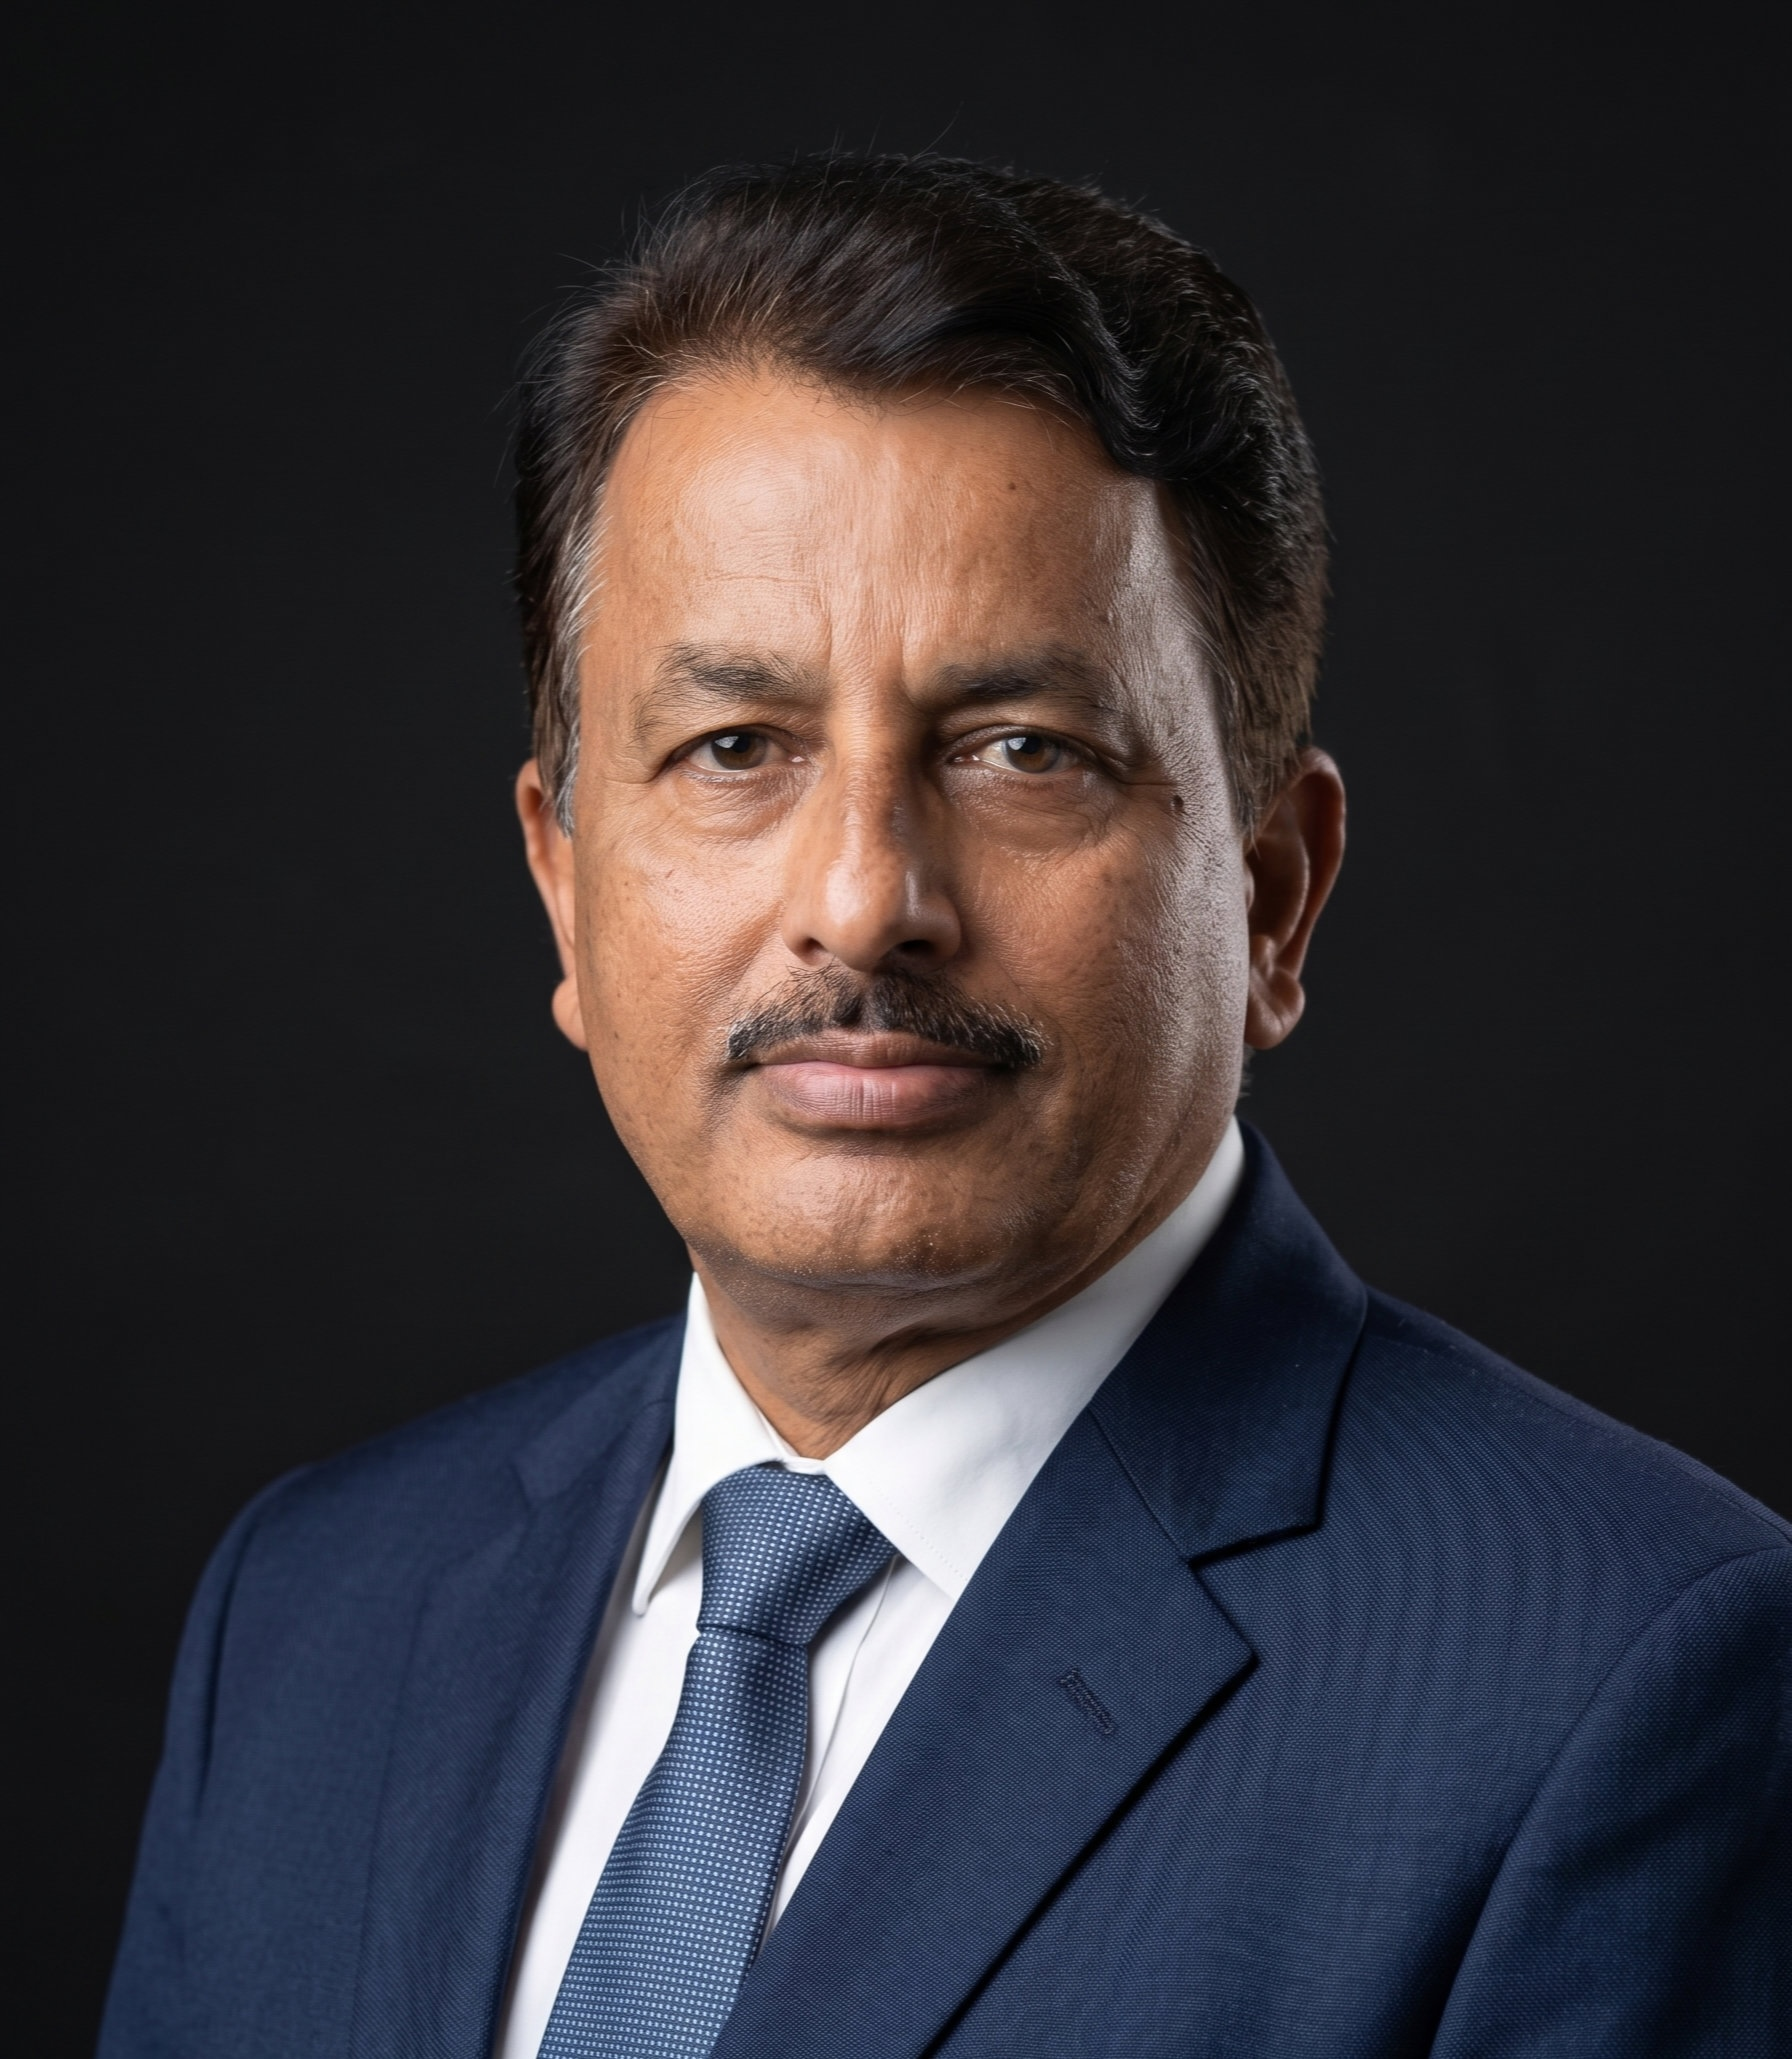
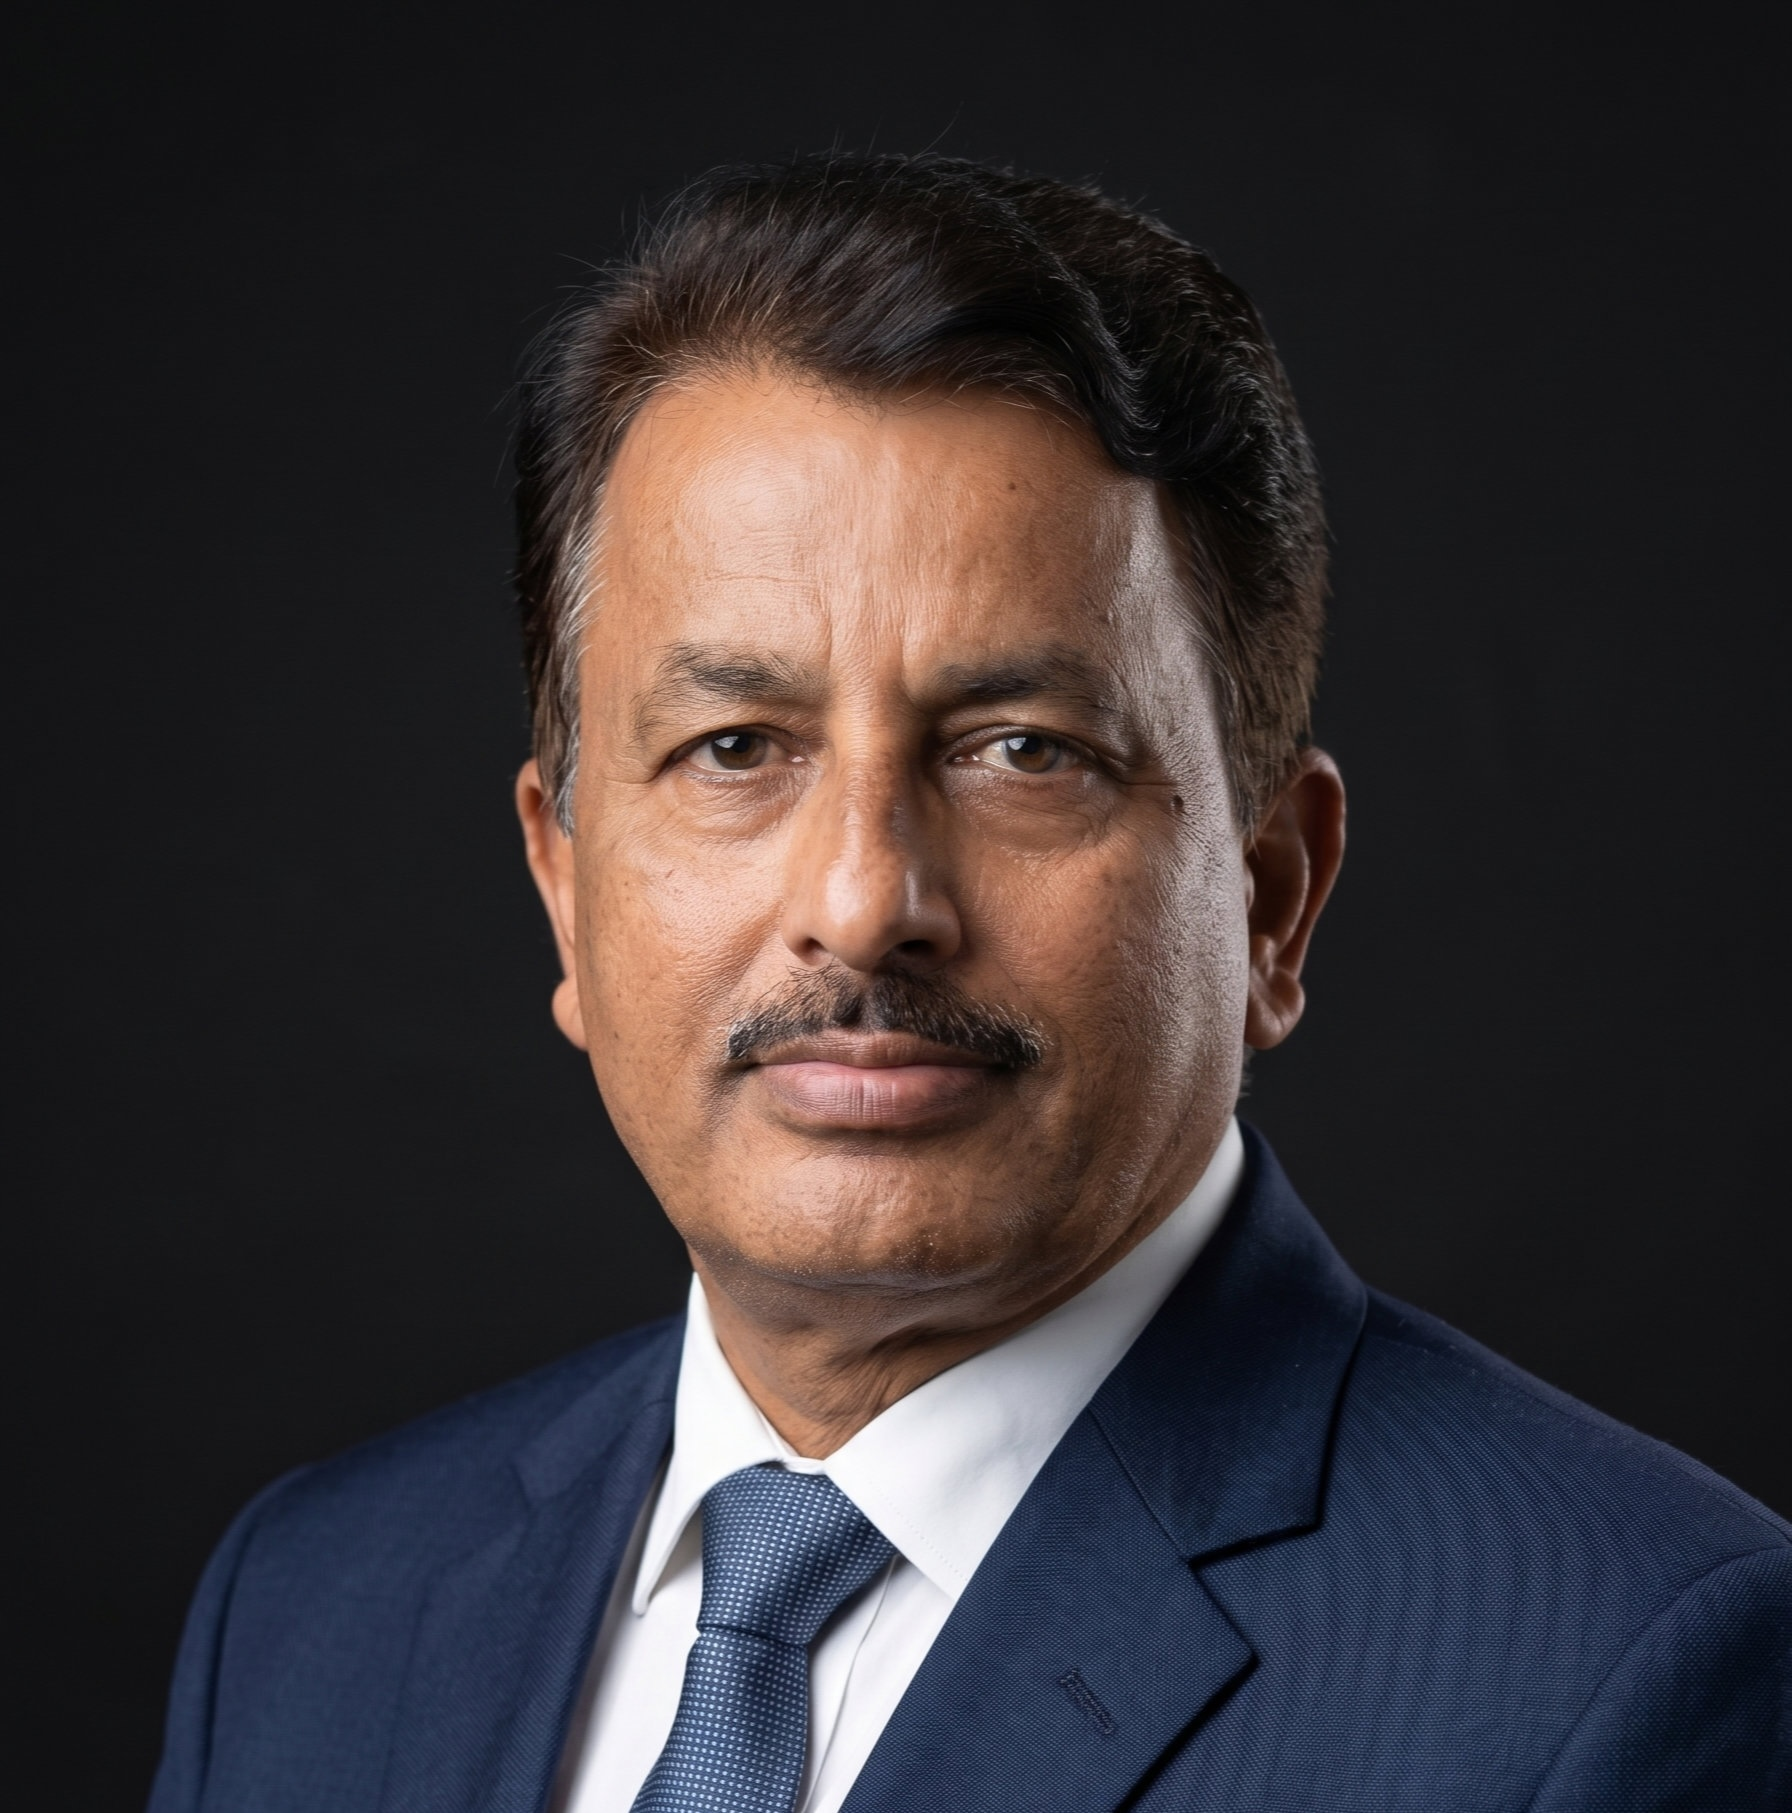
feat: fix process section

diff --git a/components/Site.jsx b/components/Site.jsx
@@ -417,7 +417,8 @@ function HeroMock() {
       {/* the matched result */}
       <div className="mock-result">
         <div className="mock-photo">
-          <img className="mock-badge" src="/images/logo.png" alt="" />
+            <Img src="/images/hero-guard.jpg" alt="Matched CISS security guard" />
+          {/* <img className="mock-badge" src="/images/logo.png" alt="" /> */}
         </div>
         <div className="mock-meta">
           <div className="mock-name">Guard matched<span className="mock-caret" /></div>
@@ -438,8 +439,8 @@ function Hero({ onQuote }) {
     <header className="hero" id="top">
       <div className="wrap hero-grid">
         <div className="hero-copy">
-          <h1 className="serif">Find your <span className="italic">guard</span>, not just an agency</h1>
-          <p className="sub">Vetted, PSARA-licensed guards matched to your site &mdash; and a team that stays on watch long after day one.</p>
+          <h1 className="serif"><span className="italic">Security Guard Services </span> in Lucknow</h1>
+          <p className="sub">From weddings to industrial sites, we match you with highly-trained, PSARA-licensed guards in as little as 48 hours.</p>
           <div className="hero-cta">
             <button className="pill pill-white" onClick={onQuote}>Talk to us <span className="arrow-circ" aria-hidden="true">&rarr;</span></button>
             <a href="#services" className="pill pill-grey" style={{ textDecoration: "none" }}>View services</a>
@@ -482,11 +483,10 @@ function Services() {
             <>
               <div className="focus-img svc-img"><Img src={path} alt={`${label} in Lucknow`} /></div>
               <h3 className="svc-label">{label}</h3>
-              <div className="svc-arrow" aria-hidden="true">&rarr;</div>
+              {/* <div className="svc-arrow" aria-hidden="true">&rarr;</div> */}
             </>
           )}
         />
-        <p className="hint">14 services &mdash; swipe or use the arrows</p>
       </div>
     </section>
   );
@@ -506,11 +506,11 @@ function WhyUs() {
           <div className="why-founder">
             <div className="photo"><Img src="/images/founder.jpg" alt="Founder of CISS Lucknow, a retired IPS officer" /></div>
             <div className="body">
-              <span className="badge">Founder &middot; Former IPS Officer</span>
-              <div className="name">[Founder Name]</div>
-              <div className="role">IPS (Retd.) &middot; Ex-Superintendent of Police</div>
+              <span className="badge">Retired IPS Officer</span>
+              <div className="name">M.R. Singh</div>
+              <div className="role">Ex-Deputy Inspector General (Uttar Pradesh Police)</div>
               <p className="blurb">
-                Over two decades in the Indian Police Service. After a distinguished career in law
+                Over three decades in the Indian Police Service. After a distinguished career in law
                 enforcement, he founded CISS to bring that same discipline, integrity, and command
                 to private security across Lucknow.
               </p>
@@ -550,142 +550,56 @@ function ClientLogos() {
 }
 
 function Process() {
-  const isD = useIsDesktop();
   const [active, setActive] = useState(0);
-  const trackRef = useRef(null);
-  const sentinels = useRef([]);
-  const lockRef = useRef(false);
-  const settleRef = useRef(null);
-
-  useEffect(() => () => clearInterval(settleRef.current), []);
-
-  // Scroll → active step. Listens on `document` in the capture phase so it works
-  // whether the page scrolls on `window` or inside a nested scroll container.
-  useEffect(() => {
-    const onScroll = () => {
-      if (lockRef.current) return;
-      const t = trackRef.current;
-      if (!t) return;
-      const vh = window.innerHeight;
-      const total = t.offsetHeight - vh;
-      const scrolled = Math.min(Math.max(-t.getBoundingClientRect().top, 0), total);
-      const p = total > 0 ? scrolled / total : 0;
-      setActive(Math.min(STEPS.length - 1, Math.floor(p * STEPS.length * 0.999)));
-    };
-    document.addEventListener("scroll", onScroll, { capture: true, passive: true });
-    window.addEventListener("resize", onScroll, { passive: true });
-    onScroll();
-    return () => {
-      document.removeEventListener("scroll", onScroll, { capture: true });
-      window.removeEventListener("resize", onScroll);
-    };
-  }, [isD]);
-
-  // Jump to a step by scrolling its sentinel into view (container-agnostic).
-  // The lock is released only once the smooth scroll has *settled* — a fixed
-  // timer would expire mid-flight and snap the step back.
-  const goTo = useCallback((i) => {
-    const idx = Math.max(0, Math.min(STEPS.length - 1, i));
-    const target = sentinels.current[idx];
-    if (!target) return;
-    setActive(idx);
-    lockRef.current = true;
-    clearInterval(settleRef.current);
-    target.scrollIntoView({ behavior: "smooth", block: "start" });
-
-    let last = null;
-    let stable = 0;
-    let ticks = 0;
-    settleRef.current = setInterval(() => {
-      const t = trackRef.current;
-      const pos = t ? Math.round(t.getBoundingClientRect().top) : 0;
-      if (pos === last) stable += 1;
-      else stable = 0;
-      last = pos;
-      ticks += 1;
-      // settled for ~150ms, or hard stop after 3s
-      if (stable >= 3 || ticks > 60) {
-        clearInterval(settleRef.current);
-        lockRef.current = false;
-      }
-    }, 50);
-  }, []);
-
+  const go = (i) => setActive(Math.max(0, Math.min(STEPS.length - 1, i)));
   const [n, tag, title, desc, get, img] = STEPS[active];
 
   return (
-    <section id="process" aria-labelledby="proc-h">
-      <div ref={trackRef} className="proc-track" style={{ height: `${STEPS.length * 90}vh` }}>
-        {/* invisible scroll targets, one per step */}
-        {STEPS.map((_, i) => (
-          <span
-            key={i}
-            aria-hidden="true"
-            ref={(el) => (sentinels.current[i] = el)}
-            className="proc-sentinel"
-            style={{ top: `${i * 90}vh` }}
-          />
-        ))}
+    <section id="process" className="proc" aria-labelledby="proc-h">
+      <div className="wrap">
+        <div className="proc-head">
+          <span className="eyebrow dark">Process</span>
+          <h2 className="serif" id="proc-h">A clear <span className="italic">process</span>, from first call to daily watch</h2>
+        </div>
 
-        <div className="proc-sticky">
-          <div className="wrap">
-            {/* heading lives inside the pinned frame so it stays with the step */}
-            <div className="proc-head">
-              <span className="eyebrow dark">Process</span>
-              <h2 className="serif" id="proc-h">A clear <span className="italic">process</span>, from first call to daily watch</h2>
-            </div>
+        {/* tabs — click to jump to a step */}
+        <div className="proc-tabs" role="tablist" aria-label="Our process steps">
+          {STEPS.map(([sn, stag], i) => (
+            <button
+              key={sn}
+              role="tab"
+              aria-selected={i === active}
+              className={"proc-tab" + (i === active ? " active" : "")}
+              onClick={() => go(i)}
+            >
+              <span className="proc-num">{sn}</span> {stag}
+            </button>
+          ))}
+        </div>
 
-            {/* mobile step pills */}
-            {!isD && (
-              <div className="proc-mrail">
-                {STEPS.map(([sn, stag], i) => (
-                  <button key={sn} className={"proc-dot" + (i === active ? " active" : "")}
-                    onClick={() => goTo(i)} aria-current={i === active}>
-                    {sn} &middot; {stag}
-                  </button>
-                ))}
-              </div>
-            )}
-
-            <div className="proc-grid">
-              {isD && (
-                <div className="proc-rail">
-                  {STEPS.map(([sn, stag], i) => (
-                    <button key={sn} className={"proc-step" + (i === active ? " active" : "")}
-                      onClick={() => goTo(i)} aria-current={i === active}>
-                      <span className="proc-num">{sn}</span> {stag}
-                    </button>
-                  ))}
-                  {/* down arrow sits under the three step buttons */}
-                  {/* <div className="proc-next">
-                    <button onClick={() => goTo(active + 1)} disabled={active >= STEPS.length - 1}
-                      aria-label="Next step">&darr;</button>
-                  </div> */}
-                </div>
-              )}
-
-              <div className="proc-img proc-fade" key={"i" + active}>
-                <Img src={img} alt={`${title} — CISS Lucknow`} />
-              </div>
-
-              <div className="proc-card proc-fade" key={"c" + active}>
-                <div className="proc-tag">Step {n}</div>
-                <h3 className="proc-title">{title}</h3>
-                <p className="proc-desc">{desc}</p>
-                <div className="proc-get">
-                  <div className="k">What you get</div>
-                  <div className="v">{get}</div>
-                </div>
-              </div>
-            </div>
-
-            {!isD && (
-              <div className="proc-next">
-                <button onClick={() => goTo(active + 1)} disabled={active >= STEPS.length - 1}
-                  aria-label="Next step">&darr;</button>
-              </div>
-            )}
+        <div className="proc-grid">
+          <div className="proc-img proc-fade" key={"i" + active}>
+            <Img src={img} alt={`${title} — CISS Lucknow`} />
           </div>
+
+          <div className="proc-card proc-fade" key={"c" + active}>
+            <div className="proc-tag">Step {n}</div>
+            <h3 className="proc-title">{title}</h3>
+            <p className="proc-desc">{desc}</p>
+            <div className="proc-get">
+              <div className="k">What you get</div>
+              <div className="v">{get}</div>
+            </div>
+          </div>
+        </div>
+
+        {/* prev / next */}
+        <div className="proc-arrows">
+          <button className="proc-arrow" onClick={() => go(active - 1)}
+            disabled={active === 0} aria-label="Previous step">&larr;</button>
+          <span className="proc-count">{active + 1} / {STEPS.length}</span>
+          <button className="proc-arrow" onClick={() => go(active + 1)}
+            disabled={active === STEPS.length - 1} aria-label="Next step">&rarr;</button>
         </div>
       </div>
     </section>

diff --git a/app/globals.css b/app/globals.css
@@ -236,58 +236,52 @@ html{scroll-behavior:smooth;}
   text-transform:uppercase;flex:0 0 auto;}
 @media(prefers-reduced-motion:reduce){.mq-a,.mq-b{animation:none;}}
 
-/* process */
-.proc-track{position:relative;}
-.proc-sentinel{position:absolute;left:0;width:1px;height:1px;pointer-events:none;opacity:0;}
-.proc-sticky{position:sticky;top:0;height:100vh;display:flex;align-items:center;overflow:hidden;}
-.proc-head{text-align:center;margin-bottom:20px;}
+/* process — simple tabbed section, no scroll-pinning */
+.proc{padding:56px 0;}
+.proc-head{text-align:center;margin-bottom:24px;}
 .proc-head .eyebrow{margin-bottom:10px;}
 .proc-head h2{font-size:clamp(26px,3.6vw,42px);line-height:1.06;margin:0 auto;max-width:20ch;color:var(--ink);}
-.proc-grid{display:grid;grid-template-columns:190px 1fr 1fr;gap:22px;align-items:stretch;width:100%;
-  height:clamp(340px,68vh,760px);}
-.proc-rail{display:flex;flex-direction:column;gap:8px;justify-content:center;}
-.proc-step{display:flex;gap:12px;padding:14px 16px;border-radius:12px;color:var(--muted);font-weight:600;
-  font-size:15px;transition:.3s;background:none;border:none;font-family:var(--sans);cursor:pointer;text-align:left;}
-.proc-step.active{background:#fff;color:var(--ink);box-shadow:0 8px 22px rgba(0,0,0,.07);}
-.proc-step:hover{color:var(--ink);}
+
+.proc-tabs{display:flex;gap:8px;justify-content:center;flex-wrap:wrap;margin-bottom:24px;}
+.proc-tab{padding:10px 18px;border-radius:999px;font-size:14px;font-weight:600;border:none;cursor:pointer;
+  background:#dfe1dd;color:var(--muted);font-family:var(--sans);transition:.25s;}
+.proc-tab:hover{color:var(--ink);}
+.proc-tab.active{background:#fff;color:var(--ink);box-shadow:0 6px 16px rgba(0,0,0,.08);}
 .proc-num{font-variant-numeric:tabular-nums;opacity:.65;}
-.proc-img{border-radius:18px;height:100%;background:linear-gradient(150deg,#c3ccc2,#a7b3a6);
+
+.proc-grid{display:grid;grid-template-columns:1fr;gap:16px;align-items:stretch;max-width:1000px;margin:0 auto;}
+.proc-img{border-radius:18px;min-height:220px;background:linear-gradient(150deg,#c3ccc2,#a7b3a6);
   display:flex;align-items:center;justify-content:center;color:#4a534a;font-size:12px;font-weight:600;overflow:hidden;}
 .proc-img img{width:100%;height:100%;object-fit:cover;}
 .proc-card{background:#f6f5ef;border-radius:18px;padding:26px;display:flex;flex-direction:column;}
 .proc-tag{font-size:12px;font-weight:700;letter-spacing:.1em;text-transform:uppercase;color:var(--muted);}
-.proc-title{font-size:23px;font-weight:700;color:var(--ink);margin-top:6px;line-height:1.15;}
-.proc-desc{font-size:15px;color:var(--muted);line-height:1.55;margin-top:12px;}
-.proc-get{margin-top:auto;background:#e7e6de;border-radius:12px;padding:16px;}
+.proc-title{font-size:23px;font-weight:700;color:var(--ink);margin:6px 0 0;line-height:1.15;}
+.proc-desc{font-size:15px;color:var(--muted);line-height:1.55;margin:12px 0 0;}
+.proc-get{margin-top:20px;background:#e7e6de;border-radius:12px;padding:16px;}
 .proc-get .k{font-size:11px;font-weight:700;letter-spacing:.08em;text-transform:uppercase;color:var(--muted);}
 .proc-get .v{font-size:14.5px;font-weight:600;color:var(--ink);margin-top:6px;line-height:1.4;}
-.proc-fade{animation:procIn .55s cubic-bezier(.22,.61,.36,1) both;}
-@keyframes procIn{from{opacity:0;transform:translateY(28px)}to{opacity:1;transform:none}}
-.proc-next{display:flex;justify-content:flex-start;margin-top:18px;padding-left:14px;}
-.proc-next button{width:52px;height:52px;border-radius:50%;background:var(--navy);color:#fff;border:none;
-  cursor:pointer;font-size:20px;display:flex;align-items:center;justify-content:center;
-  box-shadow:0 10px 26px rgba(15,32,56,.28);transition:.25s;}
-.proc-next button:hover:not(:disabled){background:#1b2c46;transform:translateY(2px);}
-.proc-next button:disabled{opacity:.28;cursor:default;}
-.proc-mrail{display:flex;gap:8px;justify-content:center;margin-bottom:16px;flex-wrap:wrap;}
-.proc-dot{padding:8px 14px;border-radius:999px;font-size:13px;font-weight:600;border:none;cursor:pointer;
-  background:#dfe1dd;color:var(--muted);font-family:var(--sans);}
-.proc-dot.active{background:#fff;color:var(--ink);box-shadow:0 6px 16px rgba(0,0,0,.08);}
-@media(max-width:859px){
-  .proc-grid{grid-template-columns:1fr;gap:10px;height:auto;}
-  .proc-img{height:min(24vh,170px);}
-  .proc-sticky{height:100vh;align-items:center;padding:8px 0;}
-  .proc-head{margin-bottom:12px;}
-  .proc-head h2{font-size:clamp(22px,5.4vw,30px);}
-  .proc-mrail{margin-bottom:12px;gap:6px;}
-  .proc-dot{padding:7px 11px;font-size:12px;}
-  .proc-card{padding:16px;}
-  .proc-title{font-size:19px;}
-  .proc-desc{font-size:13.5px;margin-top:7px;line-height:1.5;}
-  .proc-get{padding:12px;margin-top:12px;}
-  .proc-get .v{font-size:13.5px;}
-  .proc-next{justify-content:center;margin-top:12px;padding-left:0;}
-  .proc-next button{width:44px;height:44px;font-size:18px;}
+.proc-fade{animation:procIn .5s cubic-bezier(.22,.61,.36,1) both;}
+@keyframes procIn{from{opacity:0;transform:translateY(18px)}to{opacity:1;transform:none}}
+
+.proc-arrows{display:flex;align-items:center;justify-content:center;gap:18px;margin-top:24px;}
+.proc-arrow{width:48px;height:48px;border-radius:50%;background:var(--navy);color:#fff;border:none;cursor:pointer;
+  font-size:19px;display:flex;align-items:center;justify-content:center;
+  box-shadow:0 10px 26px rgba(15,32,56,.24);transition:.25s;}
+.proc-arrow:hover:not(:disabled){background:#1b2c46;}
+.proc-arrow:disabled{opacity:.28;cursor:default;box-shadow:none;}
+.proc-count{font-size:14px;font-weight:600;color:var(--muted);font-variant-numeric:tabular-nums;min-width:44px;text-align:center;}
+
+@media(min-width:760px){
+  .proc-grid{grid-template-columns:1fr 1fr;gap:22px;}
+  .proc-img{min-height:420px;}
+  .proc-card{padding:30px;}
+  .proc-title{font-size:26px;}
+}
+@media(max-width:520px){
+  .proc-tab{padding:8px 13px;font-size:12.5px;}
+  .proc-card{padding:20px;}
+  .proc-title{font-size:20px;}
+  .proc-desc{font-size:14px;}
 }
 
 /* testimonials */
@@ -387,6 +381,7 @@ html{scroll-behavior:smooth;}
   .nav-menu{display:none;}
   .hero{padding:40px 0 26px;text-align:left;}
   .hero-grid{grid-template-columns:1.05fr .95fr;gap:44px;}
+  .hero-copy{margin-left: auto}
   .hero h1{margin:0;}
   .hero .sub{margin:22px 0 0;}
   .hero-cta{justify-content:flex-start;margin-top:32px;}
@@ -395,6 +390,7 @@ html{scroll-behavior:smooth;}
 }
 @media(min-width:860px) and (max-width:1100px){
   .hero-grid{grid-template-columns:1fr .9fr;gap:30px;}
+  .hero-copy{margin-left: auto}
   .hero h1{font-size:clamp(36px,4.7vw,52px);}
   .hero .sub{font-size:16px;}
   .mock{width:min(360px,100%);}
@@ -419,4 +415,15 @@ html{scroll-behavior:smooth;}
   .nav-logo{height:30px;}
   .pill-gold{padding:10px 14px;font-size:13px;}
   .nav-bar{padding:9px 10px 9px 14px;}
+}
+
+/* keep the photo inside the rounded card */
+.mock-photo{overflow:hidden;}
+.mock-photo img{
+  position:absolute;
+  inset:0;
+  width:100%;
+  height:100%;
+  object-fit:cover;
+  display:block;
 }